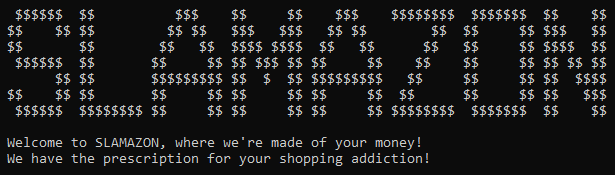
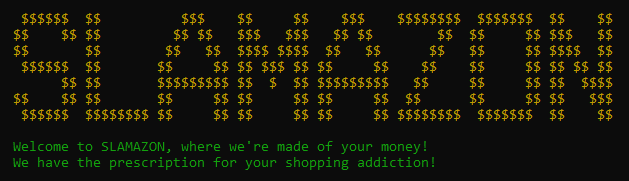
Style Spice- CLI Table, Colors

Changed region(s): [[0.0, 0.0571, 0.9886, 0.6857], [0.0, 0.7714, 0.7106, 0.9429], [0.0, 0.5143, 0.0618, 0.5714]]

diff --git a/slamazonCustomer.js b/slamazonCustomer.js
@@ -1,5 +1,7 @@
 const mysql = require("mysql");
 const inquirer = require("inquirer");
+const table = require ("cli-table")
+const colors = require ("colors")
 
 // Create the connection info for the SQL database
 const connection = mysql.createConnection({
@@ -19,14 +21,31 @@ connection.connect(function (err) {
 function slamazonStart() {
   connection.query("SELECT * FROM slamazonDB.products", function (err, res) {
     if (err) throw err;
-    console.log(`\n`);
-    console.log("Welcome to SLAMAZON!  We have the prescription for your shopping addiction!\n")
-    console.log("Here are Today's Deals!\n")
-    
-    for (var i = 0; i < res.length; i++) {
-      console.log(`${res[i].item_id} | ${res[i].product_name} | $${res[i].price}`);
-    }
-    console.log("***************************************************************************");
+    // console.log(`\n`);
+
+    console.log(`
+ $$$$$$  $$          $$$    $$     $$    $$$    $$$$$$$$  $$$$$$$  $$    $$
+$$    $$ $$         $$ $$   $$$   $$$   $$ $$        $$  $$     $$ $$$   $$
+$$       $$        $$   $$  $$$$ $$$$  $$   $$      $$   $$     $$ $$$$  $$
+ $$$$$$  $$       $$     $$ $$ $$$ $$ $$     $$    $$    $$     $$ $$ $$ $$
+      $$ $$       $$$$$$$$$ $$  $  $$ $$$$$$$$$   $$     $$     $$ $$  $$$$
+$$    $$ $$       $$     $$ $$     $$ $$     $$  $$      $$     $$ $$   $$$ 
+ $$$$$$  $$$$$$$$ $$     $$ $$     $$ $$     $$ $$$$$$$$  $$$$$$$  $$    $$ 
+ `.yellow)
+    console.log("Welcome to SLAMAZON, where we're made of your money!\nWe have the prescription for your shopping addiction!\n".green)
+    console.log("Here are Today's Deals!\n".cyan)
+
+    //Instantiate the product table for the CLI
+    let products = new table({
+      head: ["ID".yellow, "Product Description".yellow, "Price".yellow],
+      colWidths: [4, 55, 9]
+    });
+
+    for (let i = 0; i < res.length; i++) {
+      products.push([`${res[i].item_id}`, `${res[i].product_name}`, `$${res[i].price.toFixed(2)}`]);
+    };
+    console.log (products.toString());
+    console.log("\n");
     // Call the slamazonBuy function to prompt the user for what they want to buy
     slamazonBuy();
   });
@@ -67,13 +86,13 @@ function slamazonBuy() {
             console.log(`\nPlease press Ctrl+C to exit and create a new order if you would like to purchase the quantity available.`);
           }
           else {
-
+            totalPrice = input.stock_quantity * res[0].price
             console.log("\nYour order was completed successfully!");
             console.log("-----------------------------------------------------------------------------");
             console.log("Here is a summary of your purchase:");
             console.log(`Product Purchased: ${res[0].product_name}`);
             console.log(`Quantity Purchased: ${input.stock_quantity}`);
-            console.log(`Total Price: $${input.stock_quantity * res[0].price}`);
+            console.log(`Total Price: $${totalPrice.toFixed(2)}`);
             console.log("\nYou will receive a confirmation email when your order has shipped.  Thank you for choosing Slamazon!");
 
             // Update the inventory
